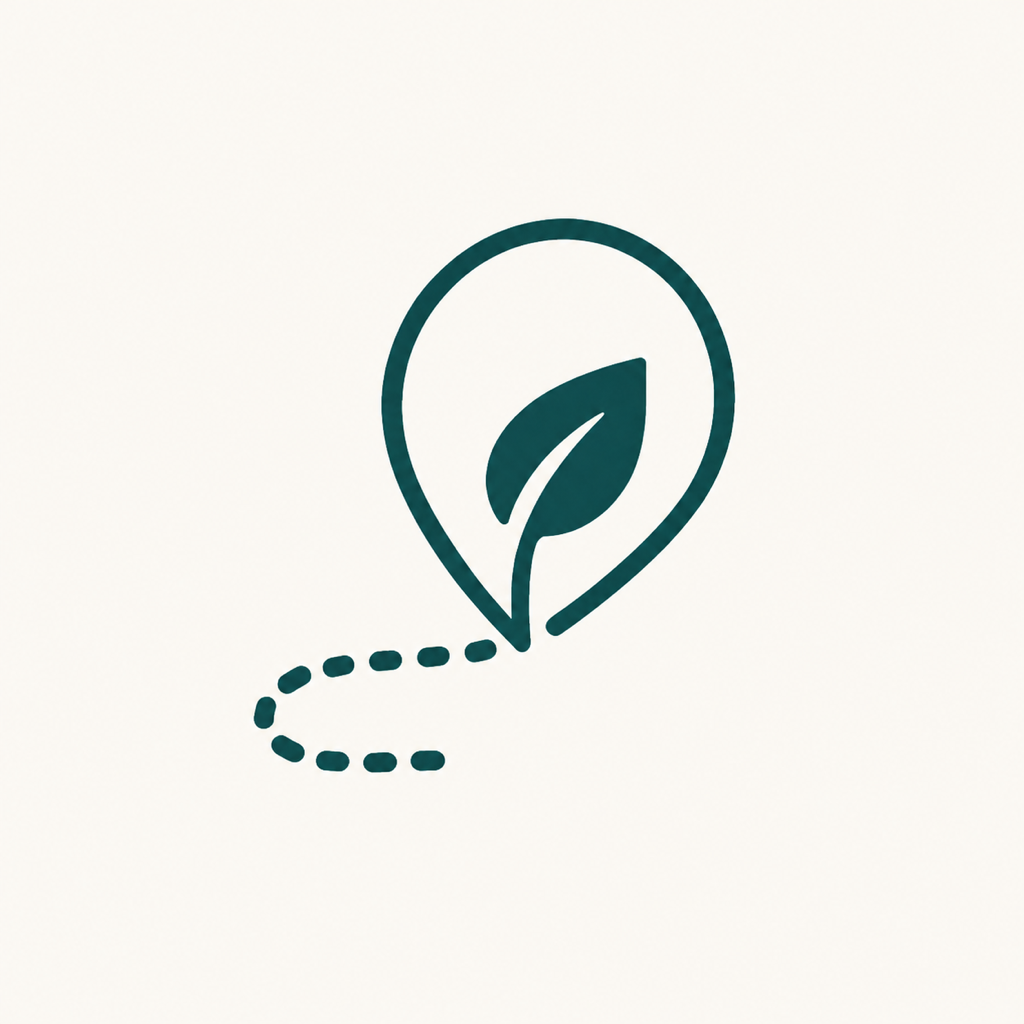
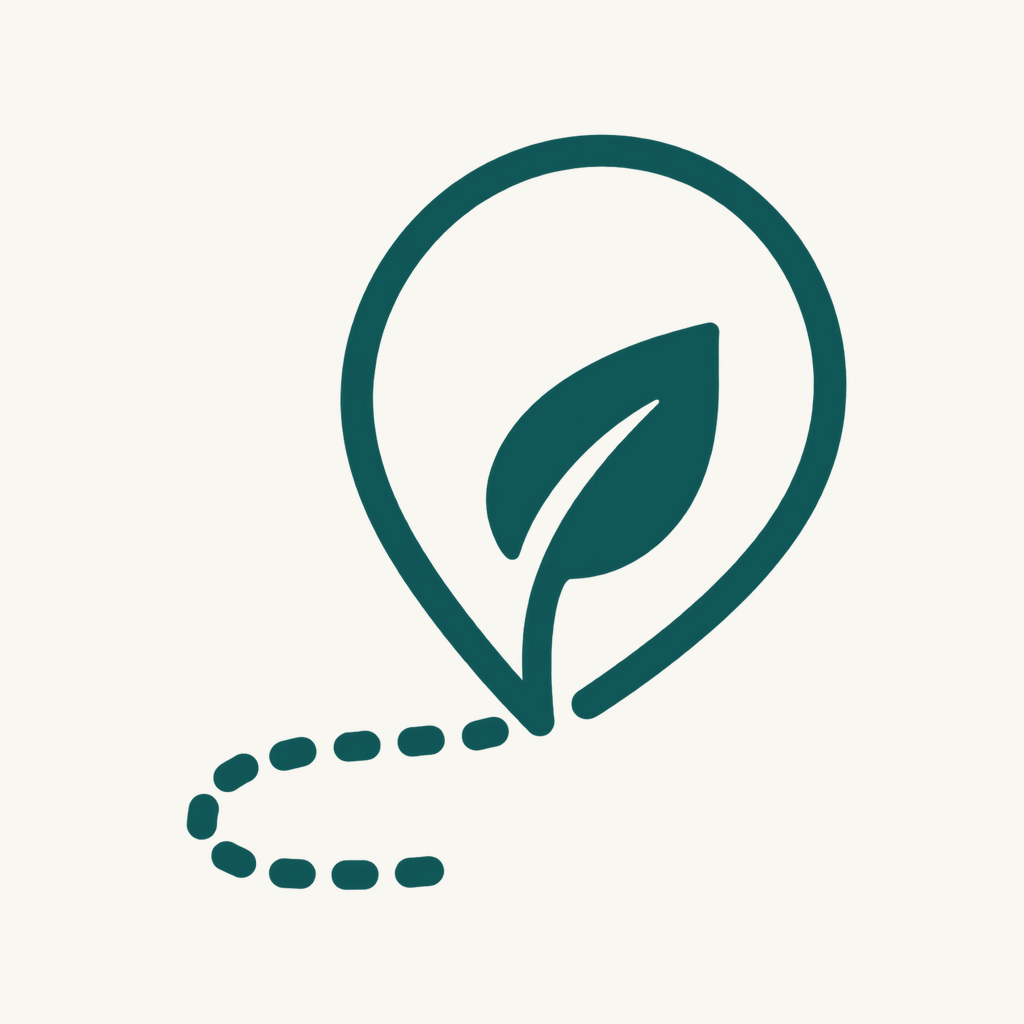
fix(mobile): polish app identity and compact layouts

Changed region(s): [[0.1562, 0.125, 0.8438, 0.875], [0.5, 0.375, 0.5312, 0.4062]]

diff --git a/mobile/src/LandingScreen.tsx b/mobile/src/LandingScreen.tsx
@@ -1,11 +1,12 @@
 import { useEffect, useMemo, useState } from "react";
-import { Image, ImageBackground, Pressable, ScrollView, StyleSheet, Text, TextInput, View } from "react-native";
+import { Image, ImageBackground, Pressable, ScrollView, StyleSheet, Text, TextInput, useWindowDimensions, View } from "react-native";
 import { SafeAreaView } from "react-native-safe-area-context";
 
 import { fetchLandingContent, filterLandingPhotos, type LandingContent, type LandingPhoto } from "./landing-photo-repository";
 import { RecoverableRemoteImage } from "./RecoverableRemoteImage";
 import { DefaultProfileAvatar } from "./DefaultProfileAvatar";
 import { mobileColors } from "./mobile-theme";
+import { usesCompactHeaderLayout } from "./mobile-layout";
 import { buildLandingTagRoute, exploreRoute, guestLoginRoute, likesRoute, myPhotosRoute, profileRoute, settingsRoute, uploadRoute } from "./mobile-routes";
 
 type LandingScreenProps = {
@@ -39,6 +40,8 @@ export function LandingScreen({
   const [query, setQuery] = useState("");
   const [accountOpen, setAccountOpen] = useState(false);
   const [reloadKey, setReloadKey] = useState(0);
+  const { width } = useWindowDimensions();
+  const compactHeader = usesCompactHeaderLayout(width);
 
   useEffect(() => {
     let mounted = true;
@@ -83,11 +86,11 @@ export function LandingScreen({
 
   return (
     <SafeAreaView style={styles.safeArea} testID="landing-screen">
-      <View style={styles.header}>
+      <View style={[styles.header, compactHeader && styles.headerCompact]}>
         <Pressable accessibilityLabel="Ikkyee 이끼 로고" accessibilityRole="button" onPress={() => { setDraftQuery(""); setQuery(""); }} style={styles.brand}>
           <Image resizeMode="contain" source={require("../assets/brand-logo.png")} style={styles.brandIcon} />
           <Text style={styles.brandWordmark}>Ikkyee</Text>
-          <Text style={styles.brandKorean}>이끼</Text>
+          <Text style={[styles.brandKorean, compactHeader && styles.brandKoreanCompact]}>이끼</Text>
         </Pressable>
         <View style={styles.headerActions}>
           <Pressable accessibilityLabel="사진 추가" accessibilityRole="button" onPress={() => go(signedIn ? uploadRoute : guestLoginRoute)} style={styles.addButton}>
@@ -205,7 +208,7 @@ export function LandingScreen({
           style={styles.footerMapVisual}
         >
           <ImageBackground imageStyle={styles.footerMapImage} resizeMode="cover" source={require("../assets/landing-map-pins-background.jpg")} style={styles.footerMapBackground}>
-            <View pointerEvents="none" style={styles.footerMapOverlay} />
+            <View style={styles.footerMapOverlay} />
             <View style={styles.footerMapContent}>
               <Text style={styles.footerMapTitle}>기억에 남을{`\n`}장소를 발견해보세요.</Text>
               <Text style={styles.footerMapAction}>지도에서 보기  →</Text>
@@ -221,10 +224,12 @@ export function LandingScreen({
 const styles = StyleSheet.create({
   safeArea: { backgroundColor: mobileColors.paper, flex: 1 },
   header: { alignItems: "center", flexDirection: "row", height: 72, justifyContent: "space-between", paddingHorizontal: 16, zIndex: 3 },
+  headerCompact: { paddingHorizontal: 12 },
   brand: { alignItems: "center", flexDirection: "row", minHeight: 44 },
   brandIcon: { height: 34, width: 34 },
   brandWordmark: { color: mobileColors.ink, fontSize: 20, fontWeight: "900", marginLeft: 7 },
   brandKorean: { borderLeftColor: mobileColors.line, borderLeftWidth: 1, color: mobileColors.pine, fontSize: 13, fontWeight: "800", marginLeft: 8, paddingLeft: 8 },
+  brandKoreanCompact: { display: "none" },
   headerActions: { alignItems: "center", flexDirection: "row", gap: 8 },
   addButton: { alignItems: "center", backgroundColor: mobileColors.pineDeep, borderRadius: 22, justifyContent: "center", minHeight: 44, paddingHorizontal: 16 },
   addButtonText: { color: mobileColors.surface, fontSize: 14, fontWeight: "800" },
@@ -238,7 +243,7 @@ const styles = StyleSheet.create({
   hero: { alignItems: "center", minHeight: 340, paddingBottom: 72, paddingHorizontal: 16, paddingTop: 32, width: "100%" },
   heroBackgroundImage: { opacity: 0.5 },
   searchRow: { flexDirection: "row", gap: 8, width: "100%" },
-  searchInput: { backgroundColor: mobileColors.surface, borderColor: mobileColors.line, borderRadius: 12, borderWidth: 1, color: mobileColors.ink, flex: 1, fontSize: 15, height: 54, paddingHorizontal: 14 },
+  searchInput: { backgroundColor: mobileColors.surface, borderColor: mobileColors.line, borderRadius: 12, borderWidth: 1, color: mobileColors.ink, flex: 1, fontSize: 15, height: 54, minWidth: 0, paddingHorizontal: 14 },
   searchButton: { alignItems: "center", backgroundColor: mobileColors.pineDeep, borderRadius: 12, justifyContent: "center", minHeight: 54, paddingHorizontal: 16 },
   searchButtonText: { color: mobileColors.surface, fontSize: 14, fontWeight: "800" },
   suggestionLabel: { alignSelf: "flex-start", color: mobileColors.muted, fontSize: 12, fontWeight: "700", marginTop: 18 },
@@ -264,7 +269,7 @@ const styles = StyleSheet.create({
   footerMapVisual: { borderRadius: 8, height: 260, marginHorizontal: 16, marginTop: 4, overflow: "hidden" },
   footerMapBackground: { height: "100%", justifyContent: "center", width: "100%" },
   footerMapImage: { opacity: 0.96 },
-  footerMapOverlay: { ...StyleSheet.absoluteFill, backgroundColor: "rgba(0, 44, 45, 0.48)" },
+  footerMapOverlay: { ...StyleSheet.absoluteFill, backgroundColor: "rgba(0, 44, 45, 0.48)", pointerEvents: "none" },
   footerMapContent: { paddingHorizontal: 28 },
   footerMapTitle: { color: mobileColors.surface, fontSize: 24, fontWeight: "900", lineHeight: 32 },
   footerMapAction: { color: mobileColors.surface, fontSize: 14, fontWeight: "800", marginTop: 18 },

diff --git a/mobile/src/public-profile-repository.ts b/mobile/src/public-profile-repository.ts
@@ -5,6 +5,7 @@ export type PublicProfile = {
   readonly displayName: string;
   readonly bio: string;
   readonly avatarUrl: string | null;
+  readonly publicPhotoCount: number;
   readonly photos: readonly {
     readonly id: string;
     readonly description: string | null;
@@ -14,7 +15,7 @@ export type PublicProfile = {
 
 type PublicProfileDependencies = {
   readonly fetchProfile: (userId: string, signal?: AbortSignal) => Promise<{ readonly row: unknown; readonly error: unknown }>;
-  readonly fetchPhotos: (userId: string, limit: number, signal?: AbortSignal) => Promise<{ readonly rows: unknown; readonly error: unknown }>;
+  readonly fetchPhotos: (userId: string, limit: number, signal?: AbortSignal) => Promise<{ readonly rows: unknown; readonly count: number | null; readonly error: unknown }>;
   readonly signPaths: (paths: readonly string[], expiresIn: number, signal?: AbortSignal) => Promise<{
     readonly urls: ReadonlyMap<string, string>;
     readonly error: unknown;
@@ -57,14 +58,14 @@ const defaultDependencies: PublicProfileDependencies = {
   async fetchPhotos(userId, limit, signal) {
     let query = getSupabaseClient()
       .from("photos")
-      .select("id,description,storage_path,thumbnail_path")
+      .select("id,description,storage_path,thumbnail_path", { count: "exact" })
       .eq("owner_id", userId)
       .eq("visibility", "public")
       .order("created_at", { ascending: false })
       .limit(limit);
     if (signal !== undefined) query = query.abortSignal(signal);
-    const { data, error } = await query;
-    return { rows: data, error };
+    const { data, count, error } = await query;
+    return { rows: data, count, error };
   },
   async signPaths(paths, expiresIn, signal) {
     throwIfAborted(signal);
@@ -98,6 +99,8 @@ export async function fetchPublicProfile(
       typeof profileResult.row !== "object" || profileResult.row === null || !Array.isArray(photosResult.rows)) {
       throw new Error(GENERIC_PROFILE_ERROR);
     }
+    const publicPhotoCount = typeof photosResult.count === "number" && Number.isInteger(photosResult.count) &&
+      photosResult.count >= photosResult.rows.length ? photosResult.count : photosResult.rows.length;
     const profile = profileResult.row as Record<string, unknown>;
     const paths = photosResult.rows.map((row) => typeof row === "object" && row !== null
       ? getPhotoPreviewPath(row as Record<string, unknown>)
@@ -127,7 +130,7 @@ export async function fetchPublicProfile(
     const avatarUrl = httpUrl(managedUrl) ?? (typeof profile["avatar_url"] === "string" && profile["avatar_url"].length > 0
       ? httpUrl(profile["avatar_url"])
       : null);
-    return { displayName, bio, avatarUrl, photos: photos as PublicProfile["photos"] };
+    return { displayName, bio, avatarUrl, publicPhotoCount, photos: photos as PublicProfile["photos"] };
   } catch (error) {
     if (signal?.aborted === true || (typeof error === "object" && error !== null && (error as { name?: unknown }).name === "AbortError")) {
       throw abortError();

diff --git a/mobile/app/device-photo/[assetId]/location.tsx b/mobile/app/device-photo/[assetId]/location.tsx
@@ -2,6 +2,7 @@ import { useEffect, useState } from "react";
 import { router, useLocalSearchParams } from "expo-router";
 import {
   Pressable,
+  ScrollView,
   StyleSheet,
   Text,
   View,
@@ -111,7 +112,7 @@ export function DevicePhotoLocationScreen({
         </View>
       </View>
 
-      <View style={styles.content}>
+      <ScrollView contentContainerStyle={styles.content}>
         <Text style={styles.title}>{loading
           ? "저장된 위치를 확인하고 있어요"
           : selectedLocation === null
@@ -138,9 +139,9 @@ export function DevicePhotoLocationScreen({
           {markerPosition === null ? null : (
             <View
               accessibilityLabel="선택한 비공개 사진 위치"
-              pointerEvents="none"
               style={[
                 styles.marker,
+                styles.markerNonInteractive,
                 { left: `${markerPosition.leftPercent}%`, top: `${markerPosition.topPercent}%` }
               ]}
             />
@@ -162,7 +163,7 @@ export function DevicePhotoLocationScreen({
         >
           <Text style={styles.saveText}>{saving ? "저장 중" : "이 위치 저장"}</Text>
         </Pressable>
-      </View>
+      </ScrollView>
     </SafeAreaView>
   );
 }
@@ -180,7 +181,7 @@ const styles = StyleSheet.create({
   backText: { color: mobileColors.ink, fontSize: 31, lineHeight: 34, marginTop: -3 },
   eyebrow: { color: mobileColors.pine, fontSize: 12, fontWeight: "800" },
   heading: { color: mobileColors.ink, fontSize: 21, fontWeight: "800", marginTop: 2 },
-  content: { flex: 1, padding: 16 },
+  content: { flexGrow: 1, padding: 16, paddingBottom: 32 },
   title: { color: mobileColors.ink, fontSize: 20, fontWeight: "800" },
   description: { color: mobileColors.muted, fontSize: 14, lineHeight: 21, marginTop: 7 },
   map: { backgroundColor: "#9ed8e2", borderRadius: 8, height: 360, marginTop: 18, overflow: "hidden", position: "relative", width: "100%" },
@@ -192,6 +193,7 @@ const styles = StyleSheet.create({
   northLabel: { color: mobileColors.pineDeep, fontSize: 12, fontWeight: "800", left: 12, position: "absolute", top: 10 },
   southLabel: { bottom: 10, color: mobileColors.pineDeep, fontSize: 12, fontWeight: "800", position: "absolute", right: 12 },
   marker: { backgroundColor: "#f48c71", borderColor: mobileColors.surface, borderRadius: 13, borderWidth: 3, height: 26, marginLeft: -13, marginTop: -13, position: "absolute", width: 26 },
+  markerNonInteractive: { pointerEvents: "none" },
   privacyCard: { backgroundColor: mobileColors.surface, borderColor: mobileColors.line, borderRadius: 8, borderWidth: 1, marginTop: 12, padding: 14 },
   privacyTitle: { color: mobileColors.ink, fontSize: 14, fontWeight: "800" },
   privacyCopy: { color: mobileColors.muted, fontSize: 12, lineHeight: 18, marginTop: 4 },

diff --git a/mobile/__tests__/public-profile-screen.test.tsx b/mobile/__tests__/public-profile-screen.test.tsx
@@ -6,7 +6,7 @@ describe("public profile screen", () => {
   it("renders public profile copy and public photos without exposing the user id", async () => {
     const userId = "11111111-1111-4111-8111-111111111111";
     const loadProfile = jest.fn(async () => ({
-      displayName: "여행자", bio: "천천히 걷습니다", avatarUrl: null,
+      displayName: "여행자", bio: "천천히 걷습니다", avatarUrl: null, publicPhotoCount: 42,
       photos: [{ id: "photo-a", description: "한강 저녁", imageUrl: "https://example.supabase.co/signed/photo-a" }]
     }));
     const { getByLabelText, getByText, queryByText } = await render(
@@ -15,6 +15,7 @@ describe("public profile screen", () => {
 
     await waitFor(() => expect(getByText("여행자")).toBeOnTheScreen());
     expect(getByText("천천히 걷습니다")).toBeOnTheScreen();
+    expect(getByText("공개 사진 42장")).toBeOnTheScreen();
     expect(getByLabelText("한강 저녁")).toBeOnTheScreen();
     expect(queryByText(userId)).not.toBeOnTheScreen();
   });
@@ -22,8 +23,8 @@ describe("public profile screen", () => {
   it("removes a cached profile photo after a focused public-scope refresh", async () => {
     const userId = "11111111-1111-4111-8111-111111111111";
     const loadProfile = jest.fn()
-      .mockResolvedValueOnce({ displayName: "여행자", bio: "", avatarUrl: null, photos: [{ id: "photo-a", description: "이제 비공개", imageUrl: "https://example.supabase.co/signed/photo-a" }] })
-      .mockResolvedValueOnce({ displayName: "여행자", bio: "", avatarUrl: null, photos: [] });
+      .mockResolvedValueOnce({ displayName: "여행자", bio: "", avatarUrl: null, publicPhotoCount: 1, photos: [{ id: "photo-a", description: "이제 비공개", imageUrl: "https://example.supabase.co/signed/photo-a" }] })
+      .mockResolvedValueOnce({ displayName: "여행자", bio: "", avatarUrl: null, publicPhotoCount: 0, photos: [] });
     const screen = await render(<PublicProfileScreen loadProfile={loadProfile} refreshKey={0} userId={userId} />);
     await waitFor(() => expect(screen.getByLabelText("이제 비공개")).toBeOnTheScreen());
 

diff --git a/mobile/app/profile.tsx b/mobile/app/profile.tsx
@@ -21,11 +21,12 @@ export function ProfileScreen({ refreshKey = 0 }: ProfileScreenProps) {
 
   return (
     <SafeAreaView style={styles.safeArea} testID="profile-screen">
-      <View style={styles.header}>
+      <View style={[profileStyles.header, { paddingHorizontal: gutter }]}>
         <Pressable accessibilityLabel="프로필 닫기" accessibilityRole="button" onPress={() => router.back()} style={profileStyles.closeButton}>
-          <Text>닫기</Text>
+          <Text style={profileStyles.closeText}>닫기</Text>
         </Pressable>
-        <Text style={styles.title}>프로필</Text>
+        <Text style={profileStyles.headerTitle}>프로필</Text>
+        <View style={profileStyles.headerSpacer} />
       </View>
       {auth.status === "signed_in" ? (
         <KeyboardSafeScrollView contentContainerStyle={[profileStyles.signedInBody, { paddingHorizontal: gutter }]}>
@@ -74,5 +75,9 @@ export default function ProfileRoute() {
 const profileStyles = StyleSheet.create({
   signedInBody: { alignItems: "center", flexGrow: 1, paddingBottom: 48, paddingTop: 24 },
   accountLabel: { alignSelf: "stretch", color: "#252c25", fontSize: 17, fontWeight: "800", marginTop: 28 },
-  closeButton: { alignItems: "center", justifyContent: "center", minHeight: 44, minWidth: 44 }
+  header: { alignItems: "center", flexDirection: "row", minHeight: 64 },
+  closeButton: { alignItems: "flex-start", justifyContent: "center", minHeight: 44, minWidth: 44, width: 52 },
+  closeText: { color: "#003637", fontSize: 14, fontWeight: "800" },
+  headerTitle: { color: "#191c1c", flex: 1, fontSize: 22, fontWeight: "800", textAlign: "center" },
+  headerSpacer: { width: 52 }
 });

diff --git a/mobile/__tests__/public-profile-repository.test.ts b/mobile/__tests__/public-profile-repository.test.ts
@@ -7,13 +7,13 @@ describe("public profile repository", () => {
     const fetchPhotos = jest.fn(async () => ({ rows: [{
       id: "photo-a", description: "한강 저녁", storage_path: `${userId}/photo-a.jpg`,
       thumbnail_path: `${userId}/thumbnails/photo-a.jpg`
-    }], error: null }));
+    }], count: 42, error: null }));
     const signPaths = jest.fn(async () => ({
       urls: new Map([[`${userId}/thumbnails/photo-a.jpg`, "https://example.supabase.co/signed/photo-a-thumbnail"]]), error: null
     }));
 
     await expect(fetchPublicProfile(userId, undefined, { fetchProfile, fetchPhotos, signPaths })).resolves.toEqual({
-      displayName: "여행자", bio: "천천히 걷습니다", avatarUrl: null,
+      displayName: "여행자", bio: "천천히 걷습니다", avatarUrl: null, publicPhotoCount: 42,
       photos: [{ id: "photo-a", description: "한강 저녁", imageUrl: "https://example.supabase.co/signed/photo-a-thumbnail" }]
     });
     expect(fetchProfile).toHaveBeenCalledWith(userId, undefined);
@@ -26,7 +26,7 @@ describe("public profile repository", () => {
     const avatarPath = `${userId}/avatar-22222222-2222-4222-8222-222222222222.jpg`;
     const dependencies = {
       fetchProfile: jest.fn(async () => ({ row: { nickname: "여행자", bio: "", avatar_url: "https://legacy.example/avatar.jpg", avatar_path: avatarPath }, error: null })),
-      fetchPhotos: jest.fn(async () => ({ rows: [], error: null })),
+      fetchPhotos: jest.fn(async () => ({ rows: [], count: 0, error: null })),
       signPaths: jest.fn(),
       publicAvatarUrl: jest.fn((path: string) => `https://storage.example/${path}`)
     };

diff --git a/mobile/__tests__/profile-public-summary.test.tsx b/mobile/__tests__/profile-public-summary.test.tsx
@@ -9,7 +9,7 @@ describe("signed-in profile public photo summary", () => {
     const openPhoto = jest.fn();
     const screen = await render(<ProfilePublicSummary
       loadProfile={async () => ({
-        displayName: "여행자", bio: "", avatarUrl: null,
+        displayName: "여행자", bio: "", avatarUrl: null, publicPhotoCount: 1,
         photos: [{ id: "photo-a", description: "한강 저녁", imageUrl: "https://storage.example/photo-a" }]
       })}
       openPhoto={openPhoto}
@@ -33,8 +33,8 @@ describe("signed-in profile public photo summary", () => {
 
   it("removes a cached own-profile photo after a profile refresh", async () => {
     const loadProfile = jest.fn()
-      .mockResolvedValueOnce({ displayName: "여행자", bio: "", avatarUrl: null, photos: [{ id: "photo-a", description: "삭제 예정", imageUrl: "https://storage.example/photo-a" }] })
-      .mockResolvedValueOnce({ displayName: "여행자", bio: "", avatarUrl: null, photos: [] });
+      .mockResolvedValueOnce({ displayName: "여행자", bio: "", avatarUrl: null, publicPhotoCount: 1, photos: [{ id: "photo-a", description: "삭제 예정", imageUrl: "https://storage.example/photo-a" }] })
+      .mockResolvedValueOnce({ displayName: "여행자", bio: "", avatarUrl: null, publicPhotoCount: 0, photos: [] });
     const screen = await render(<ProfilePublicSummary loadProfile={loadProfile} refreshKey={0} userId={userId} />);
     await waitFor(() => expect(screen.getByRole("button", { name: "삭제 예정 공개 사진 열기" })).toBeOnTheScreen());
 

diff --git a/mobile/app/public-profile/[userId].tsx b/mobile/app/public-profile/[userId].tsx
@@ -74,7 +74,7 @@ export function PublicProfileScreen({
           ) : <Image accessibilityLabel="여행자 프로필 이미지" source={{ uri: displayState.profile.avatarUrl }} style={styles.avatar} />}
           <Text style={styles.name}>{displayState.profile.displayName}</Text>
           {displayState.profile.bio.length === 0 ? null : <Text style={styles.bio}>{displayState.profile.bio}</Text>}
-          <Text style={styles.sectionTitle}>공개 사진 {displayState.profile.photos.length}장</Text>
+          <Text style={styles.sectionTitle}>공개 사진 {displayState.profile.publicPhotoCount}장</Text>
           {displayState.profile.photos.length === 0 ? (
             <Text style={styles.emptyCopy}>아직 공개한 사진이 없습니다.</Text>
           ) : (

diff --git a/mobile/__tests__/mobile-layout-policy.test.ts b/mobile/__tests__/mobile-layout-policy.test.ts
@@ -1,5 +1,5 @@
 import appConfig from "../app.json";
-import { getMobileScreenGutter } from "../src/mobile-layout";
+import { getMobileScreenGutter, usesCompactHeaderLayout } from "../src/mobile-layout";
 
 describe("mobile layout policy", () => {
   it("keeps 360px and 390px portrait layouts within their intended gutters", () => {
@@ -11,5 +11,11 @@ describe("mobile layout policy", () => {
 
   it("declares the supported release orientation explicitly", () => {
     expect(appConfig.expo.orientation).toBe("portrait");
+  });
+
+  it("uses the compact header only on very narrow devices", () => {
+    expect(usesCompactHeaderLayout(320)).toBe(true);
+    expect(usesCompactHeaderLayout(340)).toBe(true);
+    expect(usesCompactHeaderLayout(360)).toBe(false);
   });
 });

diff --git a/mobile/__tests__/app-assets-contract.test.ts b/mobile/__tests__/app-assets-contract.test.ts
@@ -48,13 +48,13 @@ describe("production app assets", () => {
     expect(appConfig.expo.plugins).toContainEqual([
       "expo-splash-screen",
       {
-        backgroundColor: "#FFFFFF",
+        backgroundColor: "#F9F7F2",
         image: "./assets/brand-logo.png",
         imageWidth: 180,
         resizeMode: "contain"
       }
     ]);
-    expect(readPng("assets/brand-logo.png")).toEqual({ width: 256, height: 256, colorType: 6 });
+    expect(readPng("assets/brand-logo.png")).toEqual({ width: 1024, height: 1024, colorType: 6 });
     expect(appConfig.expo.web.favicon).toBe("./assets/favicon.png");
     expect(readPng("assets/favicon.png")).toEqual({ width: 512, height: 512, colorType: 6 });
   });

diff --git a/mobile/src/mobile-layout.ts b/mobile/src/mobile-layout.ts
@@ -6,6 +6,10 @@ export function getMobileScreenGutter(width: number): number {
   return 24;
 }
 
+export function usesCompactHeaderLayout(width: number): boolean {
+  return width <= 340;
+}
+
 export function useMobileScreenGutter(): number {
   const { width } = useWindowDimensions();
   return getMobileScreenGutter(width);

diff --git a/mobile/app/(tabs)/index.tsx b/mobile/app/(tabs)/index.tsx
@@ -418,6 +418,7 @@ const styles = StyleSheet.create({
     flex: 1,
     fontSize: 16,
     height: 48,
+    minWidth: 0,
     paddingHorizontal: 16
   },
   searchButton: {
